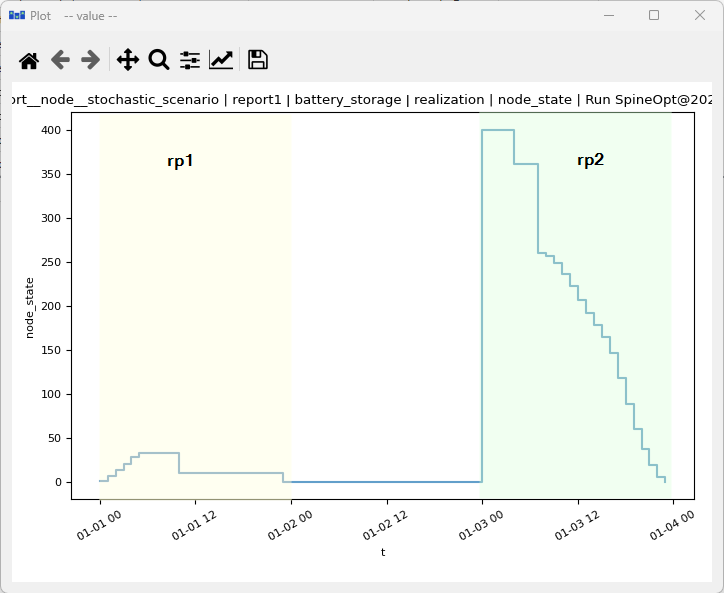
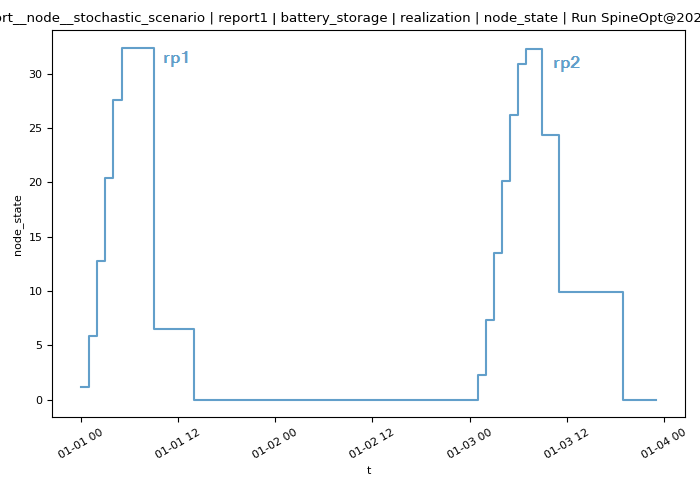
update tutorial representative periods

diff --git a/docs/src/tutorial/representative_periods.md b/docs/src/tutorial/representative_periods.md
@@ -86,7 +86,10 @@ The configuration of the *battery\_storage* includes the [has\_state](@ref) para
 
 The configuration of the *fuel\_node* is similar to the *battery_storage* node. In addition, we can define an initial value for the fuel node at the beginning of the model's time horizon using the [initial\_node\_state](@ref) parameter.
 
-The parameter *is\_longterm\_storage* is set to `true` for the fuel node, which means that the state of the fuel node can be carried over the whole time horizon, allowing to properly account for seasonal storage in the model. This is a key feature of SpineOpt that allows to capture the dynamics of seasonal storage in representative periods models.
+The parameter *is\_longterm\_storage* is set to `true` for the fuel node, which means that the state of the fuel node can be carried over the whole time horizon, allowing to properly account for seasonal storage in the model by triggering the constraint [constraint\_node\_state\_longterm\_trajectory`](@ref constraint_node_state_longterm_trajectory), see the mathematical formulation of the model for more details on this constraint in the [Constraints](@ref) section. This is a key feature of SpineOpt that allows to capture the dynamics of seasonal storage in representative periods models.
+
+!!! info "Two node state variables"
+    Since the fuel node is a long-term storage, it has two node state variables: one for the representative periods `node\_state` and another to track the node state along the whole time horizon, `node\_state\_longterm`. Remember this when checking the results 😉
 
 ![image](figs_representative_periods/rp_fuel_node.png)
 
@@ -102,9 +105,20 @@ Let's check first the battery storage node. We can see that the state of charge 
 
 ![image](figs_representative_periods/rp_battery_node_results.png)
 
-In contrast, the fuel node has a state variable for all the periods, since it is a long-term storage. We can see that the node state of the fuel node changes across the representative periods, which allows to capture the seasonal dynamics of the fuel node in the model. In order to stimate the node state of the fuel node in the non-representative periods, SpineOpt uses the changes (or deltas) in the node state of the corresponding representative periods according to the mapping defined in the [representative\_period\_mapping](@ref) parameter. For instance, for the second day, which is mapped half to *rp1* and half to *rp2*, the node state of the fuel node is estimated as a weighted average of the change in the node state in *rp1* and *rp2*. This formulation is known as the [delta formulation](https://www.sciencedirect.com/science/article/pii/S0306261918306950) for representative periods, and it is a common approach to estimate the state of long-term storage in non-representative periods based on the changes in the representative periods.
+Let's check the fuel node, but first! Remember that the fuel node has two node state variables: `node\_state` for the representative periods and `node\_state\_longterm` for the whole time horizon. The former only has values for the representative periods, while the latter has values for all the periods in the original temporal block. That means that you need to define the output for both variables in order to properly analyze the results for the fuel node, see the figure below:
 
-![image](figs_representative_periods/rp_fuel_node_results.png)
+![image](figs_representative_periods/rp_node_state_longterm_output.png)
+
+The figure below shows the results for both variables (notice that it is double-axis plot). We can see that the `node\_state\_longterm` of the fuel node changes across the representative periods, which allows to capture the seasonal dynamics of the fuel node in the model. In order to stimate the node state of the fuel node in the non-representative periods, SpineOpt uses the changes (or deltas) in the node state of the corresponding representative periods according to the mapping defined in the [representative\_period\_mapping](@ref) parameter. For instance, for the second day, which is mapped half to *rp1* and half to *rp2*, the node state of the fuel node is estimated as a weighted average of the change/delta in the node state in *rp1* and *rp2* of the `node\_state`.
+
+![image](figs_representative_periods/rp_fuel_node_results_1.png)
+
+This formulation is known as the [delta formulation](https://www.sciencedirect.com/science/article/pii/S0306261918306950) for representative periods, and it is a common approach to estimate the state of long-term storage in non-representative periods based on the changes in the representative periods.
+
+!!! warning "Important! Interpretation of the node state results"
+    The `node\_state\_longterm` and `node_state` variables values are at the end of the time block; however, SpineToolbox shows value at the first timestamp of the the timeblock. So, keep in mind this information when looking at the results.
+
+![image](figs_representative_periods/rp_fuel_node_results_2.png)
 
 !!! info "You have completed this tutorial, congratulations!"
     You have mastered the basic concepts of representative periods and modelling seasonal and non-seasonal storage using SpineToolbox and SpineOpt. Keep up the good work!

diff --git a/docs/src/mathematical_formulation/constraints.md b/docs/src/mathematical_formulation/constraints.md
@@ -1,4 +1,4 @@
-# Constraints
+# [Constraints](@id Constraints)
 
 ## Balance constraint
 
